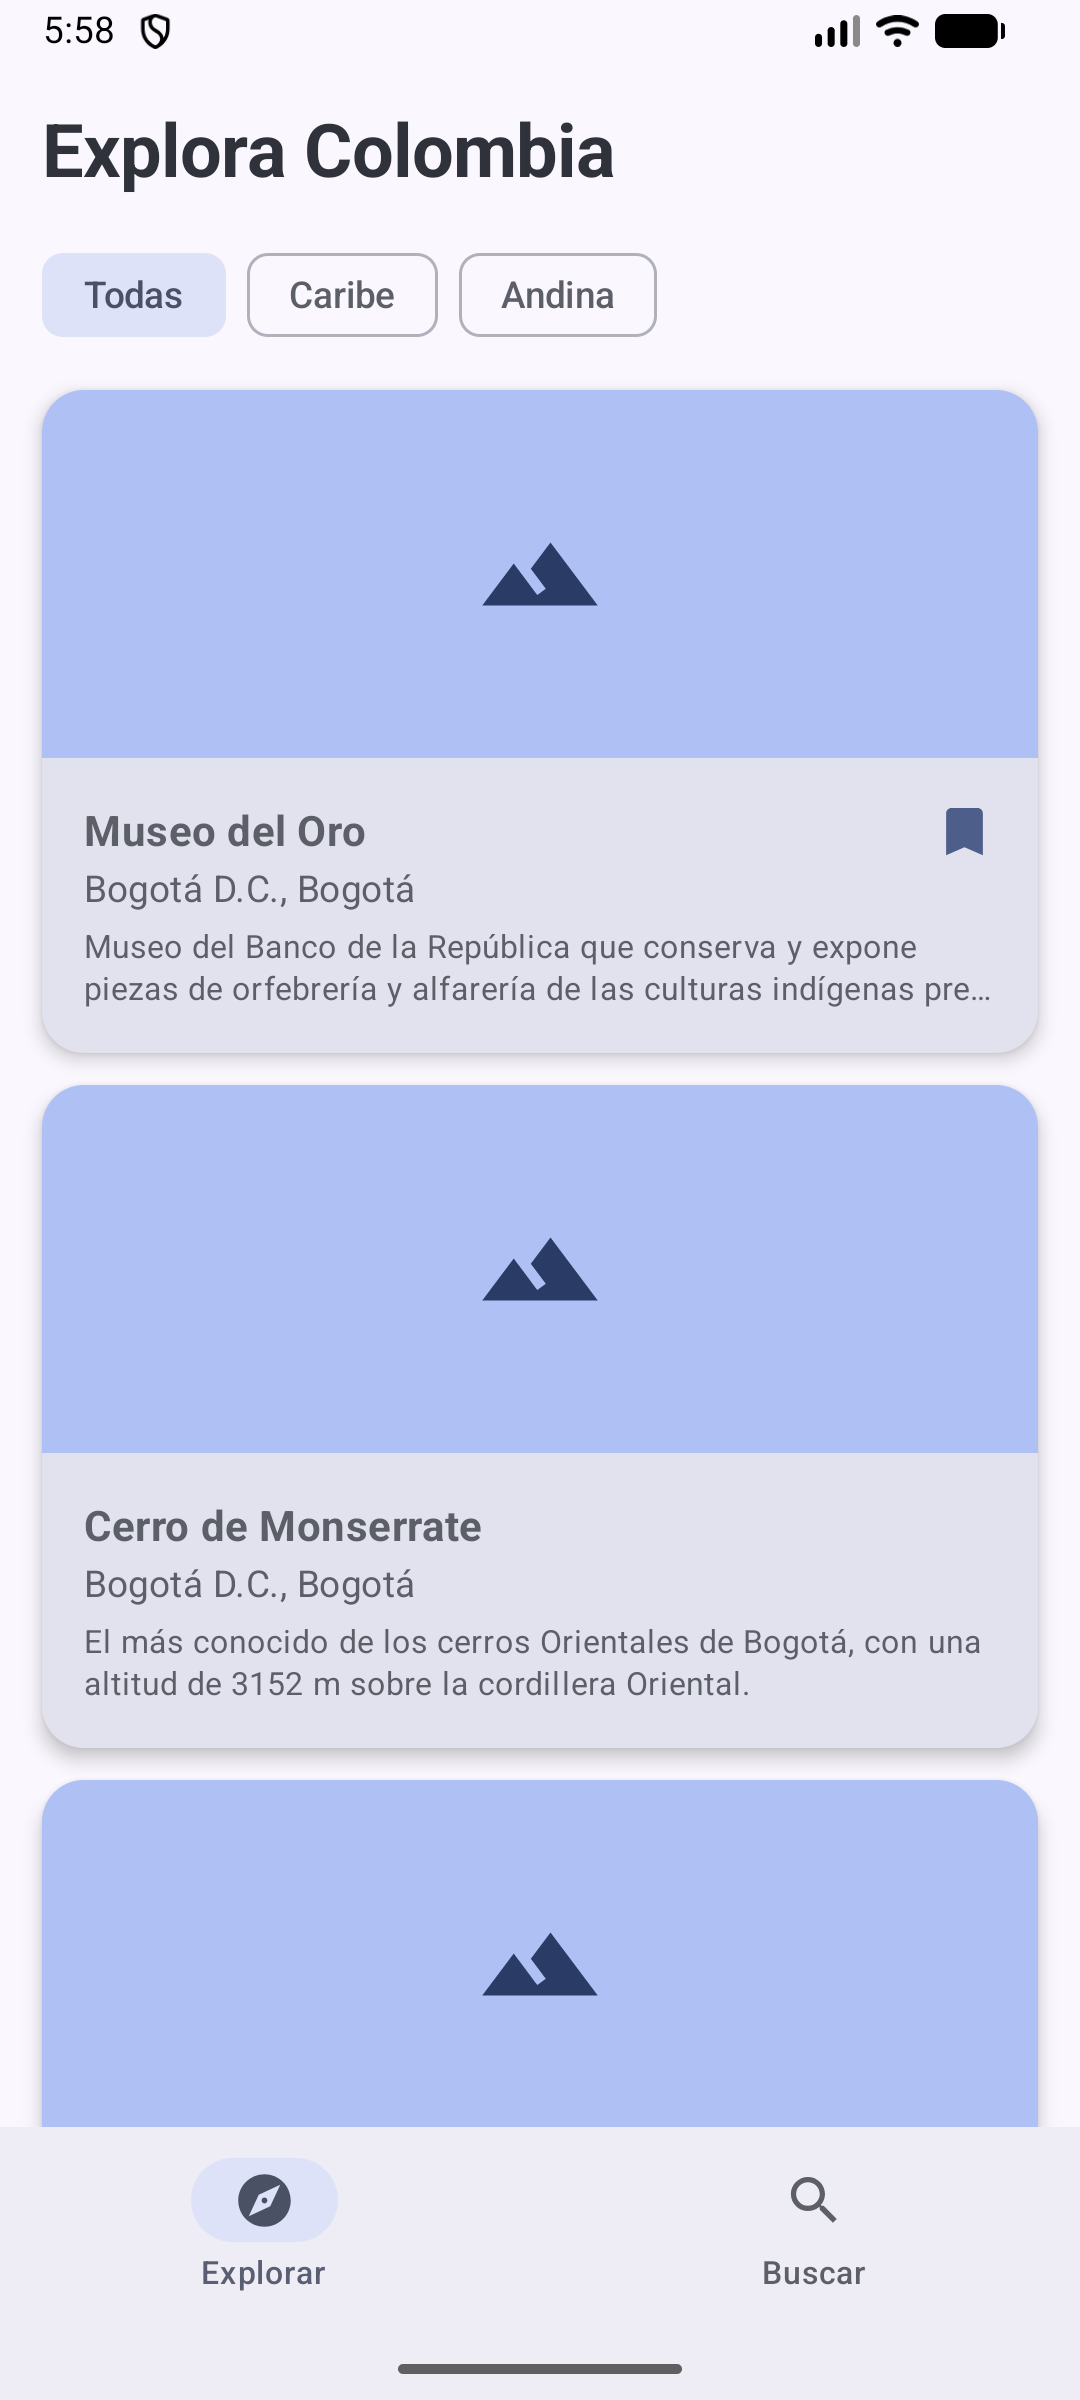
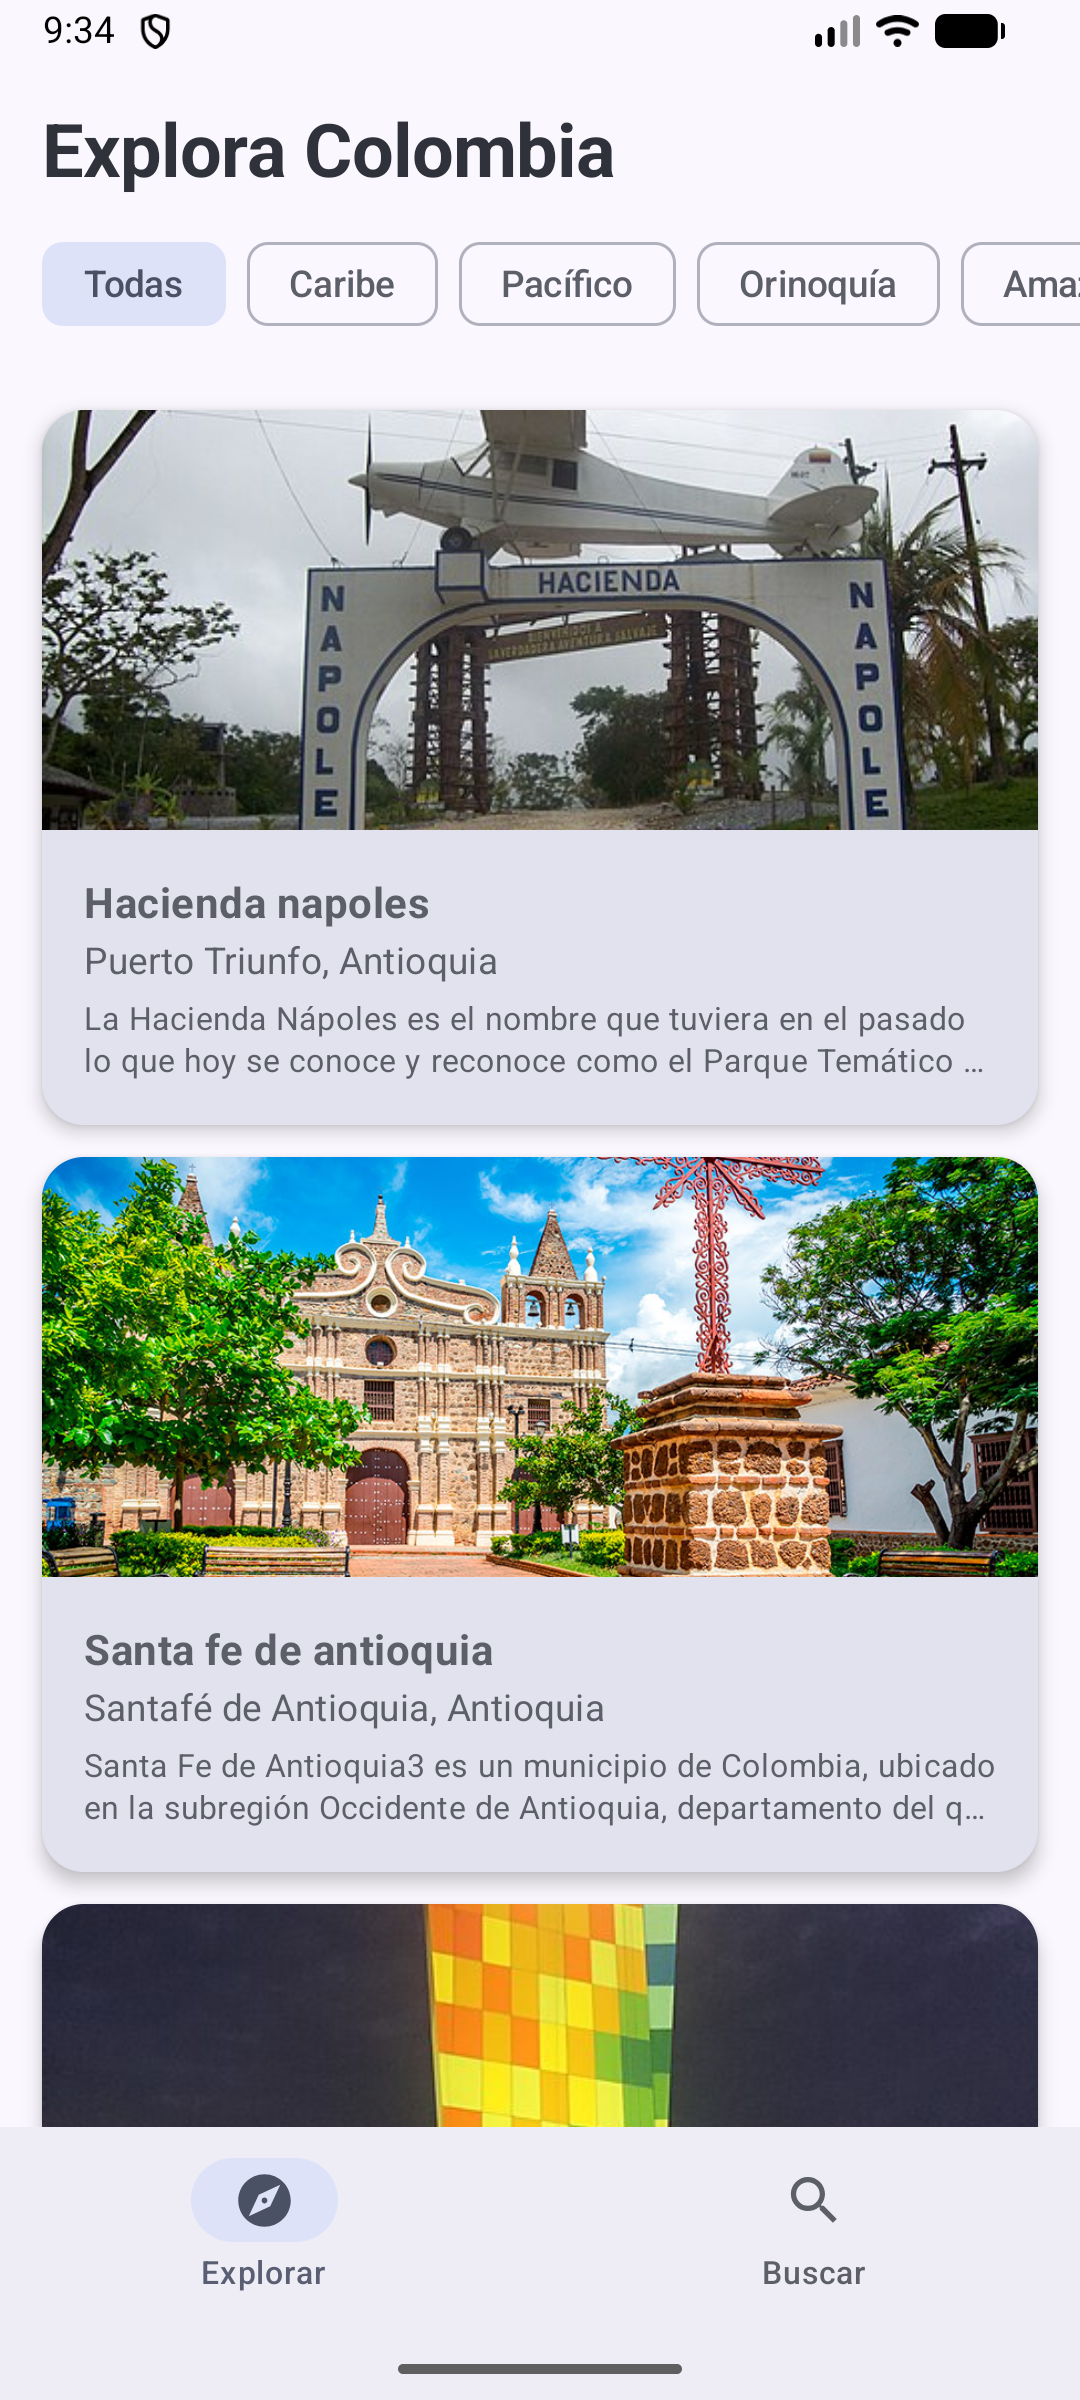
Fase 3: seccion 9 del README con capturas de la app usando la API real

diff --git a/README.md b/README.md
@@ -25,6 +25,7 @@ Diseño y arquitectura de una aplicación móvil Android que muestra los atracti
 6. [Video de presentación](#6-video-de-presentación) (Hito 6)
 7. [Cómo trabajamos (GitHub Flow)](#7-cómo-trabajamos-github-flow) (Hito 7)
 8. [Fase 2: vistas y modelo en código](#8-fase-2-vistas-y-modelo-en-código)
+9. [Fase 3: datos reales de API Colombia](#9-fase-3-datos-reales-de-api-colombia)
 
 ---
 
@@ -402,9 +403,13 @@ flowchart LR
 | [#3](https://github.com/robledocordoba123-cmyk/android-design-rumbocolombia/pull/3) | `docs/hito-2-modelo-datos` | Hito 2 llevado a `main` para corregir lo anterior | Aprobado por Davier |
 | [#4](https://github.com/robledocordoba123-cmyk/android-design-rumbocolombia/pull/4) | `docs/hito-3-pantallas` | Hito 3: pantallas en Google Stitch y flujo de navegación | Aprobado por Davier |
 | [#5](https://github.com/robledocordoba123-cmyk/android-design-rumbocolombia/pull/5) | `docs/hito-4-arquitectura` | Hito 4: arquitectura MVVM y tabla de endpoints | Aprobado por Davier |
-| — | `docs/hito-5-proyecto-base` | Hito 5: proyecto base con captura | — |
-| — | `docs/hito-6-video` | Hito 6: guion y sección del video | — |
-| — | `docs/hito-7-github-flow` | Hito 7: esta sección | — |
+| [#6](https://github.com/robledocordoba123-cmyk/android-design-rumbocolombia/pull/6) | `docs/hito-5-proyecto-base` | Hito 5: proyecto base con captura | Unido por Davier |
+| [#7](https://github.com/robledocordoba123-cmyk/android-design-rumbocolombia/pull/7) | `docs/hito-6-video` | Hito 6: guion y sección del video | Unido por Davier |
+| [#8](https://github.com/robledocordoba123-cmyk/android-design-rumbocolombia/pull/8) | `docs/hito-7-github-flow` | Hito 7: esta sección | Unido por Davier |
+| [#9](https://github.com/robledocordoba123-cmyk/android-design-rumbocolombia/pull/9) | `feature/fase-2-vistas-y-modelo` | Fase 2: modelo, repositorio, ViewModel y vistas | Unido por Manuela (Davier ausente por fuerza mayor) |
+| [#10](https://github.com/robledocordoba123-cmyk/android-design-rumbocolombia/pull/10) | `feature/fase-2-viewmodel-por-pantalla` | Fase 2: un ViewModel por pantalla y botón Guardar | Unido por Manuela (Davier ausente por fuerza mayor) |
+| [#11](https://github.com/robledocordoba123-cmyk/android-design-rumbocolombia/pull/11) | `feature/fase-2-previews` | Fase 2: `@Preview` de las 3 pantallas | Unido por Manuela (Davier ausente por fuerza mayor) |
+| #12 | `feature/fase-3-api-real-retrofit` | Fase 3: datos reales con Retrofit, estados y fotos con Coil | Unido por Manuela (Davier ausente por fuerza mayor) |
 
 ### Lo que aprendimos
 
@@ -414,13 +419,15 @@ Al principio abrimos el PR del Hito 2 **sobre la rama del Hito 1** en lugar de `
 
 ## 8. Fase 2: vistas y modelo en código
 
+> **Nota:** en esta fase la app usaba `DatosDeEjemplo.kt`, una lista escrita a mano con datos copiados de la API. En la **Fase 3 (sección 9)** ese archivo se eliminó y ahora todos los datos llegan de API Colombia con Retrofit.
+
 En la clase del 27 de octubre el instructor pidió avanzar el proyecto con la documentación de la Sesión 4 (MVVM): **modelo de datos, ViewModel y vistas**, y que el proyecto compile. Seguimos la "receta de 4 pasos" de la guía (modelo → ViewModel → pantalla → probar en `MainActivity`) y la estructura de carpetas del tema *ViewModel y capas de la app*.
 
 ```
 com.rumbocolombia.android/
 ├── data/
 │   ├── dto/            Modelos.kt (las 5 data class)
-│   └── repository/     TurismoRepository.kt, DatosDeEjemplo.kt
+│   └── repository/     TurismoRepository.kt, DatosDeEjemplo.kt (eliminado en la Fase 3)
 ├── presentation/
 │   ├── viewmodel/      ExplorarViewModel.kt, DetalleViewModel.kt, BuscarViewModel.kt
 │   ├── screens/        ExplorarScreen.kt, DetalleScreen.kt, BuscarScreen.kt
@@ -441,18 +448,38 @@ Dependencias nuevas: `lifecycle-viewmodel-compose` (para `viewModel()`) y `mater
 
 Cada pantalla tiene su **`@Preview`**, como en la guía de la Sesión 1: en Android Studio se abre el archivo de la pantalla y con el botón **Split** o **Design** se ve la vista sin ejecutar el emulador.
 
-**Dato curioso de la API:** en `/Airport` los valores de `latitude` y `longitude` vienen intercambiados. En los datos de ejemplo ya están corregidos; el Repository tendrá que hacer lo mismo.
+---
 
-### La app corriendo (build OK)
+## 9. Fase 3: datos reales de API Colombia
 
-| Explorar | Detalle | Buscar |
-|---|---|---|
-| <img src="docs/app/01-explorar.png" width="220"> | <img src="docs/app/02-detalle.png" width="220"> | <img src="docs/app/03-buscar.png" width="220"> |
+El 27 de octubre el instructor revisó el proyecto con el **Inspector** de SmartClass. El reporte recomendó como siguiente paso *"integrar Retrofit y Gson para reemplazar los datos estáticos de DatosDeEjemplo.kt por peticiones HTTP reales"*, y también cargar las fotos con Coil. Esta fase hace eso, siguiendo lo que se planeó en la sección 4:
+
+| Lo planeado en la sección 4 | Cómo quedó en el código |
+|---|---|
+| **Fuente remota: Retrofit + Gson** | `data/api/ApiColombiaService.kt` tiene los endpoints de la tabla (atracciones, detalle, búsquedas, regiones, departamentos y aeropuertos). `data/network/RetrofitClient.kt` configura la URL base `https://api-colombia.com/api/v1/` y Gson. |
+| **Corrutinas (`suspend`, `Dispatchers.IO`)** | Cada endpoint es `suspend`. El `TurismoRepository` hace las peticiones con `withContext(Dispatchers.IO)` y los ViewModels las lanzan con `viewModelScope.launch`. |
+| **Estados Loading / Success / Error** | `presentation/viewmodel/UiState.kt` (`Cargando`, `Exito`, `Error`). Cada pantalla muestra un indicador de carga, los datos o el mensaje *"Sin conexión a internet"* con el botón **Reintentar**. |
+| **Imágenes con Coil** | `presentation/components/Componentes.kt` descarga la primera foto de cada atracción. `data/network/CargadorDeImagenes.kt` identifica la app ante Wikimedia (donde están muchas fotos), que rechaza las peticiones sin nombre. |
+| **Sin API Key** | API Colombia es pública: no hay ninguna clave en el código. Se agregó el permiso `INTERNET` en el `AndroidManifest.xml`. |
+
+**Se eliminó `DatosDeEjemplo.kt`.** Lo único que queda escrito a mano es `presentation/screens/EjemplosPreview.kt`: una atracción de ejemplo **solo para los `@Preview`** de Android Studio, que no pueden conectarse a internet. La app nunca la usa al ejecutarse.
+
+Cosas de la API que se resolvieron en el Repositorio:
+- En `/Airport` los valores de `latitude` y `longitude` vienen **intercambiados**; el repositorio los voltea antes de calcular el aeropuerto más cercano.
+- `/TouristicAttraction/search/{keyword}` no trae la ciudad de cada atracción; se toma de la lista de `/TouristicAttraction`.
+- Regiones, departamentos y aeropuertos casi no cambian, así que se piden una sola vez y se guardan en memoria.
+- La búsqueda espera 400 ms a que el usuario deje de escribir antes de llamar a la API, y cancela la búsqueda anterior.
+
+Dependencias nuevas: `retrofit`, `converter-gson` y `coil-compose`.
+
+### La app corriendo con datos reales (build OK)
+
+| Explorar | Detalle | Buscar | Sin internet |
+|---|---|---|---|
+| <img src="docs/app/01-explorar.png" width="200"> | <img src="docs/app/02-detalle.png" width="200"> | <img src="docs/app/03-buscar.png" width="200"> | <img src="docs/app/04-error.png" width="200"> |
 
 ### Lo que falta (siguiente fase)
 
-- Hacer que `TurismoRepository` pida los datos con **Retrofit** a los endpoints de la sección 4 (carpetas `data/api` y `data/network` de la guía).
-- Mostrar los estados **Cargando / Éxito / Error**.
-- Cargar las fotos con **Coil** (por ahora se ve un ícono en su lugar).
-- Las atracciones guardadas hoy viven en memoria; con **Room** quedarán guardadas en el celular.
-- Inyectar el Repositorio con **Hilt** en lugar de usar un `object`.
+- **Room:** las atracciones guardadas hoy viven en memoria; con Room quedarán guardadas en el celular y se podrán ver sin internet (Sesión 5).
+- **Hilt:** inyectar el Repositorio en lugar de usar un `object` (Sesión 6).
+- **Navegación:** pasar de la navegación con estado a Navigation Compose (Sesión 8).
